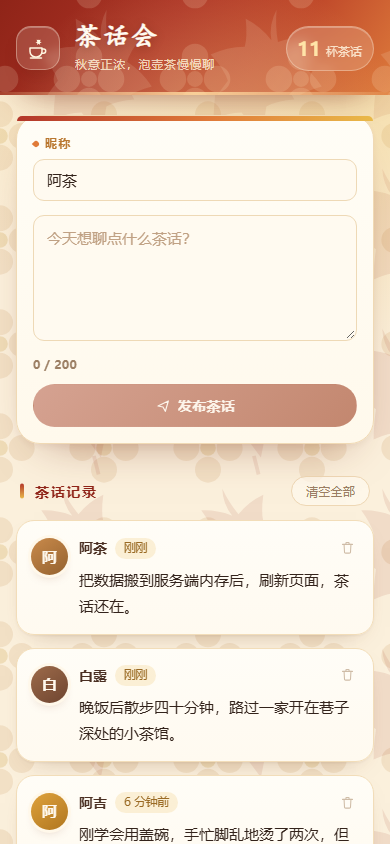
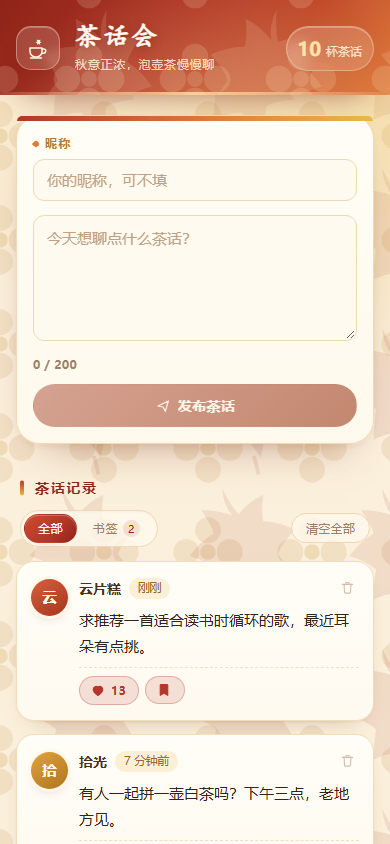
docs: 补充点赞与收藏的接口说明、用例统计与界面截图

diff --git a/README.md b/README.md
@@ -22,6 +22,8 @@
 - 查看茶话：按时间倒序展示，相对时间（刚刚 / x 分钟前 / x 小时前 / x 天前 / 日期）
 - 服务端持久：数据保存在 Node 进程内存中，刷新、重开浏览器后依然存在；重启服务则重置
 - 字数计数、内容为空时禁止发布、`Ctrl / ⌘ + Enter` 快捷发布
+- 点赞与收藏：每张卡片底部一条操作栏，点赞带计数，收藏是书签开关；状态存在服务端，刷新后仍在
+- 收藏筛选：顶部「全部 / 书签」胶囊切换，书签视图只留收藏过的茶话，角标显示收藏数
 - 单条删除（二次确认）、一键清空全部
 - 昵称自动记忆（存服务端 profile）、头像按昵称生成暖秋配色、移动端响应式布局
 - 服务启动时自动注入 10 条示例茶话，开箱即有内容；清空后不会回填
@@ -58,12 +60,16 @@ npm start        # 仅启动 API 服务
 | GET | `/api/health` | 健康检查 | `200 { "status": "ok" }` |
 | GET | `/api/messages` | 全部茶话，按 `createdAt` 倒序 | `200 { "messages": Message[] }` |
 | POST | `/api/messages` | 发布，body `{ content, nickname }` | `201 { "message": Message }` |
+| POST | `/api/messages/:id/like` | 点赞 / 取消点赞（切换） | `200 { "id": "...", "likes": 13, "liked": true }` |
+| POST | `/api/messages/:id/favorite` | 收藏 / 取消收藏（切换） | `200 { "id": "...", "favorited": true }` |
 | DELETE | `/api/messages/:id` | 删除单条 | `200 { "deleted": true, "id": "..." }` |
 | DELETE | `/api/messages` | 清空全部 | `200 { "deleted": 10 }` |
 | GET | `/api/profile` | 读取上次使用的昵称 | `200 { "nickname": "阿茶" }` |
 | PUT | `/api/profile` | 保存昵称，body `{ nickname }` | `200 { "nickname": "阿茶" }` |
 
-`Message` 字段：`id`、`nickname`、`content`、`createdAt`（毫秒时间戳）。
+`Message` 字段：`id`、`nickname`、`content`、`createdAt`（毫秒时间戳）、`likes`（点赞总数）、`liked`（当前用户是否已点赞）、`favorited`（当前用户是否已收藏）。
+
+点赞与收藏没有用户体系，按单一用户处理：状态直接挂在消息上，切换接口返回切换后的全量计数值，前端不做本地加减。
 
 错误统一为 `{ "error": { "code": "...", "message": "中文提示" } }`：
 
@@ -82,20 +88,20 @@ npm start        # 仅启动 API 服务
 2. **绿**：再实现 `server/*`、`src/api/client.js`、`src/stores/messages.js` 与组件，直到全部测试通过。
 3. **重构**：在测试保护下拆分模块，保持行为不变。
 
-当前覆盖 10 个测试文件、95 个用例：
+当前覆盖 10 个测试文件、149 个用例：
 
-| 测试文件 | 关注点 |
-| --- | --- |
-| `server/store.spec.js` | 内存存储：示例注入、排序、增删清空、昵称、边界截断、副本隔离 |
-| `server/app.spec.js` | REST 契约：状态码、响应体、错误码、profile 同步、未匹配路由 |
-| `src/api/client.spec.js` | 请求前缀/方法/请求体、JSON 解析、400/404 归一、网络异常兜底 |
-| `src/stores/messages.spec.js` | hydrate 载入、发布/删除/清空的服务端同步、失败降级、昵称记忆 |
-| `src/components/MessageComposer.spec.js` | 计数、按钮禁用、trim 提交、空内容拦截、Ctrl+Enter、输入上限 |
-| `src/components/MessageItem.spec.js` | 渲染、头像、HTML 转义、换行保留、删除事件 |
-| `src/components/MessageList.spec.js` | 列表渲染、空状态、事件透传 |
-| `src/utils/time.spec.js` | 相对时间边界（刚刚 / 分钟 / 小时 / 天 / 日期 / 跨年 / 非法值） |
-| `src/utils/avatar.spec.js` | 头像渐变确定性、首字兜底 |
-| `src/App.spec.js` | 集成：首屏载入、发布、删除、清空、刷新后从服务端读回、后端不可用降级 |
+| 测试文件 | 用例 | 关注点 |
+| --- | --- | --- |
+| `server/store.spec.js` | 29 | 内存存储：示例注入、排序、增删清空、昵称、点赞/收藏切换与副本隔离 |
+| `server/app.spec.js` | 28 | REST 契约：状态码、响应体、错误码、点赞/收藏接口、profile 同步、未匹配路由 |
+| `src/api/client.spec.js` | 18 | 请求前缀/方法/请求体、JSON 解析、400/404 归一、点赞收藏响应归一、网络异常兜底 |
+| `src/stores/messages.spec.js` | 25 | hydrate 载入、发布/删除/清空的服务端同步、点赞/收藏与筛选、失败降级、昵称记忆 |
+| `src/components/MessageComposer.spec.js` | 7 | 计数、按钮禁用、trim 提交、空内容拦截、Ctrl+Enter、输入上限 |
+| `src/components/MessageItem.spec.js` | 13 | 渲染、头像、HTML 转义、换行保留、删除/点赞/收藏事件、切换态 |
+| `src/components/MessageList.spec.js` | 6 | 列表渲染、空状态、事件透传 |
+| `src/utils/time.spec.js` | 7 | 相对时间边界（刚刚 / 分钟 / 小时 / 天 / 日期 / 跨年 / 非法值） |
+| `src/utils/avatar.spec.js` | 4 | 头像渐变确定性、首字兜底 |
+| `src/App.spec.js` | 12 | 集成：首屏载入、发布、删除、清空、点赞计数、收藏筛选、刷新后读回、后端不可用降级 |
 
 测试中不监听端口：`tests/setup.js` 为每个用例创建独立的内存 store 与 Hono 实例，并把 `globalThis.fetch` 指向 `app.request`，前端代码因此跑的是真实路由与序列化。
 
